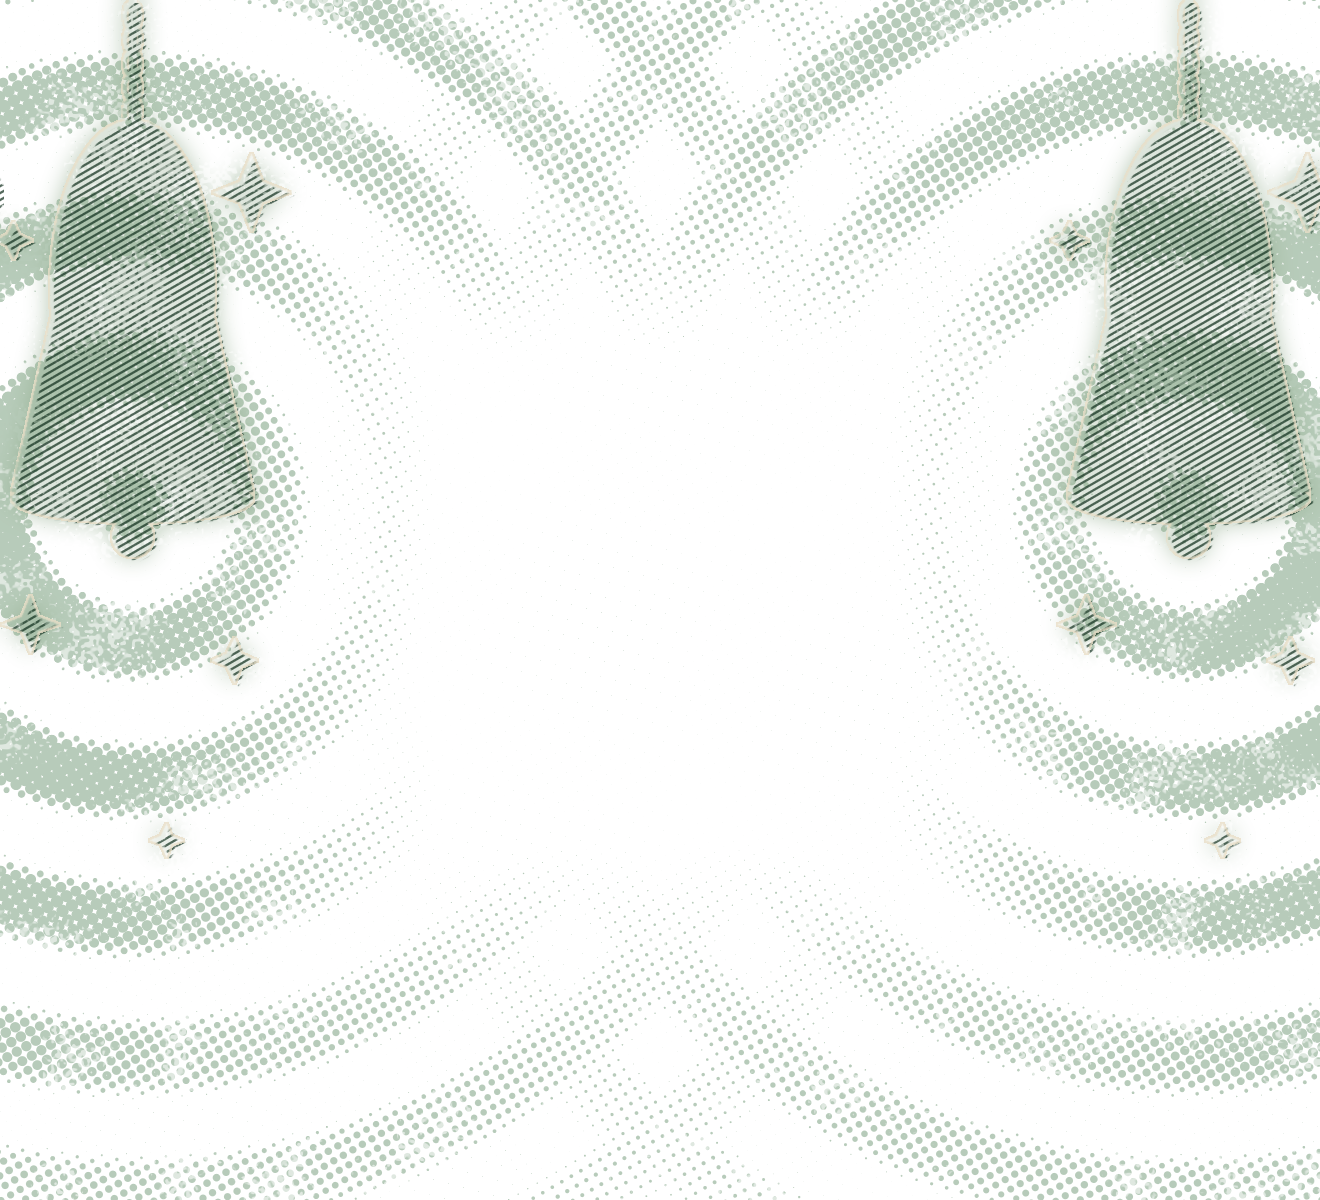
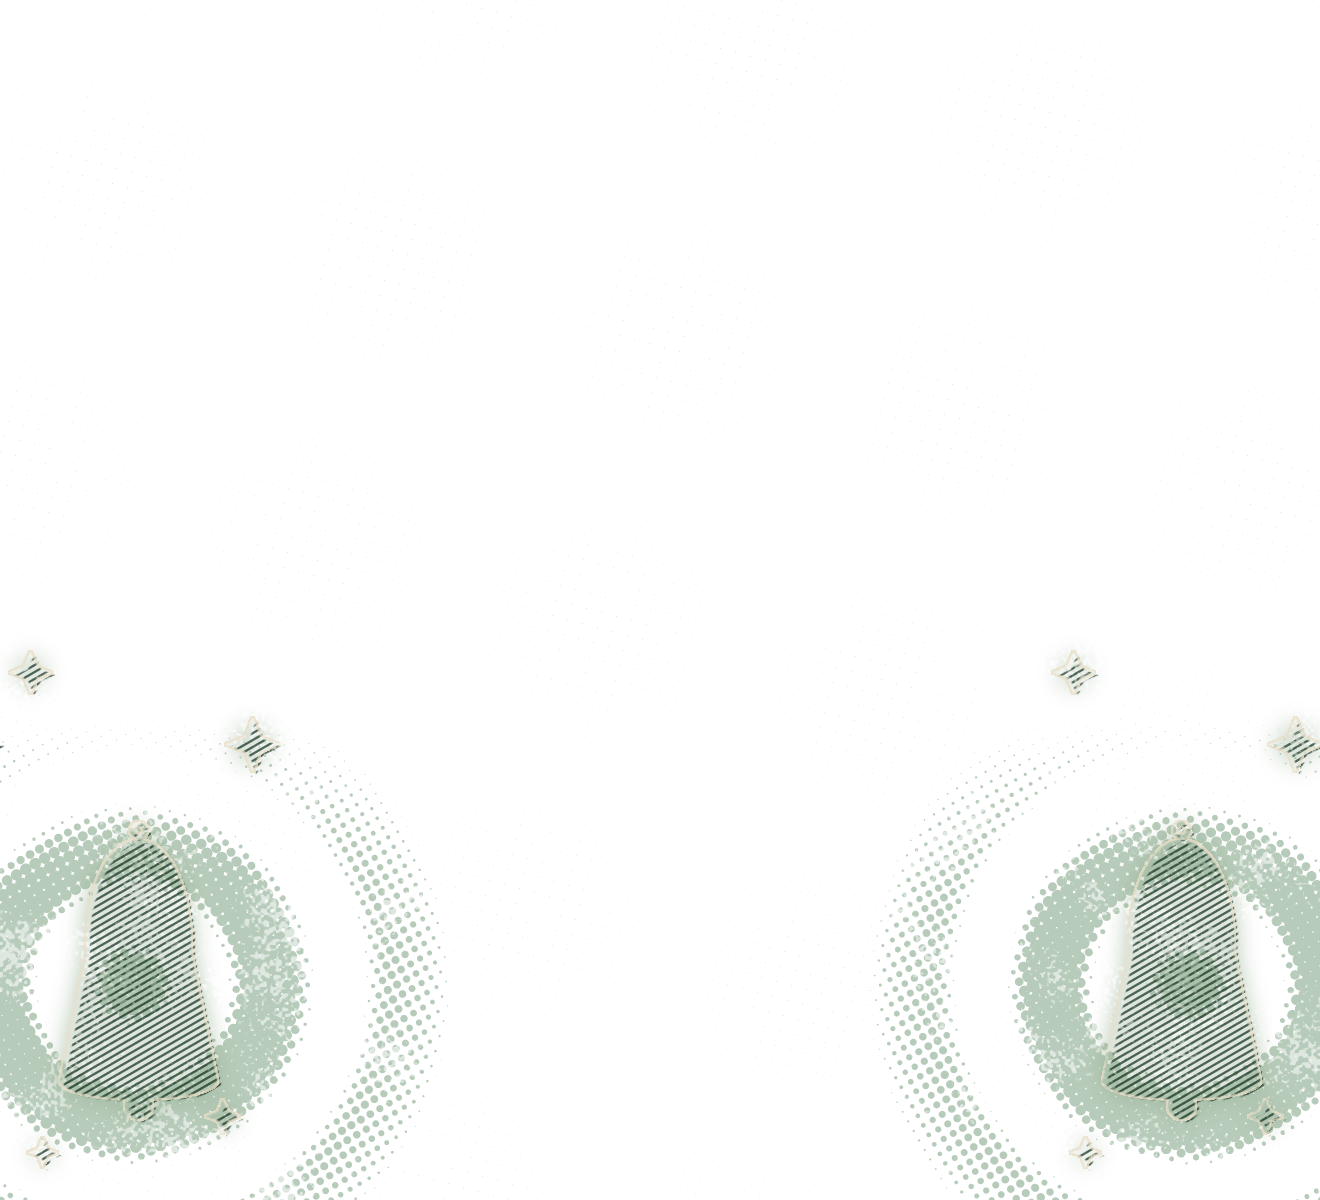
Art: keep the scenes off the controls
Checked in the live windows: the art moves to the margins, the foot and the gaps.

diff --git a/scripts/make-art.py b/scripts/make-art.py
@@ -263,19 +263,19 @@ def drums(w=1320, h=1200):
         beams = np.maximum(beams, smooth(0.55, 0.95, 0.5 + 0.5 * np.cos((a - 1.0) * 5.0)) * reach)
 
     def kit(draw):
-        for cx, sign in ((w * 0.14, 1), (w * 0.86, -1)):
+        for cx, sign in ((w * 0.05, 1), (w * 0.95, -1)):
             for tilt in (0.5, -0.5):
-                dx, dy = np.sin(tilt) * 230, np.cos(tilt) * 230
-                draw.line([(cx - dx * sign, h * 0.17 - dy), (cx + dx * sign, h * 0.17 + dy)], fill=255, width=30)
-                draw.ellipse([cx + dx * sign - 34, h * 0.17 + dy - 34, cx + dx * sign + 34, h * 0.17 + dy + 34],
+                dx, dy = np.sin(tilt) * 110, np.cos(tilt) * 110
+                draw.line([(cx - dx * sign, h * 0.13 - dy), (cx + dx * sign, h * 0.13 + dy)], fill=255, width=16)
+                draw.ellipse([cx + dx * sign - 20, h * 0.13 + dy - 20, cx + dx * sign + 20, h * 0.13 + dy + 20],
                              fill=255)
-        for cx in (w * 0.12, w * 0.88):
-            for r, wd in ((190, 14), (150, 5), (120, 5)):
+        for cx in (w * 0.05, w * 0.95):
+            for r, wd in ((110, 10), (84, 4), (62, 4)):
                 draw.ellipse([cx - r, h * 1.02 - r, cx + r, h * 1.02 + r], outline=255, width=wd)
             for i in range(10):
                 ang = i * 0.314
-                px, py = cx + np.cos(ang) * 170, h * 1.02 - abs(np.sin(ang)) * 170
-                draw.ellipse([px - 7, py - 7, px + 7, py + 7], fill=255)
+                px, py = cx + np.cos(ang) * 97, h * 1.02 - abs(np.sin(ang)) * 97
+                draw.ellipse([px - 5, py - 5, px + 5, py + 5], fill=255)
     img, mask, glow = sketch(kit, w, h)
     layers = [
         ink(halftone(beams * edge * 0.9, 12, 30), tint(paint, 0.45), 0.55, w, h, 101),
@@ -294,18 +294,18 @@ def bass(w=1320, h=1200):
 
     def neck(draw):
         for cx in (w * 0.075, w * 0.925):
-            draw.rectangle([cx - 78, 0, cx + 78, h], fill=255)
+            draw.rectangle([cx - 54, h * 0.62, cx + 54, h], fill=255)
     img, mask, _ = sketch(neck, w, h, 0.5)
     fret = np.zeros((h, w), np.float32)
-    for i in range(12):
-        fret = np.maximum(fret, np.clip(1 - np.abs(y - h * (0.03 + 0.08 * i)) / 2.4, 0, 1))
+    for i in range(9):
+        fret = np.maximum(fret, np.clip(1 - np.abs(y - h * (0.64 + 0.04 * i)) / 2.4, 0, 1))
     for cx in (w * 0.075, w * 0.925):
         for k in range(1, 5):
-            line = np.clip(1 - np.abs(x - (cx - 60 + k * 24)) / 1.4, 0, 1)
-            fret = np.maximum(fret, line * (np.abs(x - cx) < 80))
+            line = np.clip(1 - np.abs(x - (cx - 40 + k * 20)) / 1.4, 0, 1)
+            fret = np.maximum(fret, line * (np.abs(x - cx) < 56))
     inlay = np.zeros((h, w), np.float32)
     for cx in (w * 0.075, w * 0.925):
-        for row, r in ((0.2, 14), (0.4, 14), (0.55, 20), (0.74, 14)):
+        for row, r in ((0.7, 12), (0.82, 12), (0.93, 16)):
             inlay = np.maximum(inlay, np.clip(r - np.sqrt((x - cx) ** 2 + (y - h * row) ** 2) + 0.5, 0, 1))
     strings = np.zeros((h, w), np.float32)
     swing = smooth(0.05, 0.5, np.minimum(x, w - x) / w * 2)
@@ -315,7 +315,7 @@ def bass(w=1320, h=1200):
             strings = np.maximum(strings, np.clip(1 - np.abs(y - yy) / (1.3 + k * 0.5), 0, 1))
     waves = smooth(0.4, 1.0, 0.5 + 0.5 * np.cos(y / 14.0 + 2 * np.sin(x / 130.0))) * edge * 0.8 * (1 - mask)
     layers = [
-        ink(mask * 0.55, shadeof(paint, 0.55), 0.5, w, h, 111),
+        ink(mask * 0.55, shadeof(paint, 0.55), 0.4, w, h, 111),
         ink(fret * mask, tint(paint, 0.55), 0.7, w, h, 112),
         ink(inlay, CREAM, 0.8, w, h, 113),
         ink(halftone(waves, 11, 0), tint(paint, 0.4), 0.45, w, h, 114),
@@ -330,12 +330,12 @@ def pad(w=1320, h=1200):
     x, y = grid(w, h)
     edge = edges(w, h, 0.32)
     rng = np.random.default_rng(121)
-    mx, my, mr = w * 0.88, h * 0.17, 110
+    mx, my, mr = w * 0.76, h * 0.86, 62
     moon = np.clip(mr - np.sqrt((x - mx) ** 2 + (y - my) ** 2) + 0.5, 0, 1)
     crater = np.zeros((h, w), np.float32)
-    for _ in range(9):
-        a_, r_ = rng.uniform(0, 6.28), rng.uniform(0, mr * 0.7)
-        cr = rng.uniform(10, 26)
+    for _ in range(7):
+        a_, r_ = rng.uniform(0, 6.28), rng.uniform(0, mr * 0.6)
+        cr = rng.uniform(6, 15)
         d_ = np.sqrt((x - (mx + np.cos(a_) * r_)) ** 2 + (y - (my + np.sin(a_) * r_)) ** 2)
         crater = np.maximum(crater, np.clip(1 - np.abs(d_ - cr) / 1.6, 0, 1))
     curtain = 0.5 + 0.5 * np.sin(x / 70.0 + 2.2 * np.sin(y / 260.0) + noise(w, h, 150, 122) * 3)
@@ -368,24 +368,23 @@ def bells(w=1320, h=1200):
     edge = edges(w, h, 0.34)
     rings = np.zeros((h, w), np.float32)
     for cx in (w * 0.1, w * 0.9):
-        d = np.sqrt((x - cx) ** 2 + (y - h * 0.42) ** 2)
-        rings = np.maximum(rings, smooth(0.3, 0.9, 0.5 + 0.5 * np.cos(d / 22.0)) * smooth(h * 0.8, 120, d))
+        d = np.sqrt((x - cx) ** 2 + (y - h * 0.82) ** 2)
+        rings = np.maximum(rings, smooth(0.3, 0.9, 0.5 + 0.5 * np.cos(d / 22.0)) * smooth(h * 0.3, 90, d))
 
     def shapes(draw):
-        for cx in (w * 0.1, w * 0.9):
-            draw.line([(cx, 0), (cx, h * 0.1)], fill=255, width=8)
-            for k in range(5):
-                draw.ellipse([cx - 9, k * 24, cx + 9, k * 24 + 30], outline=255, width=4)
-            draw.ellipse([cx - 82, h * 0.1, cx + 82, h * 0.38], fill=255)
-            draw.polygon([(cx - 80, h * 0.26), (cx + 80, h * 0.26), (cx + 120, h * 0.41), (cx - 120, h * 0.41)],
-                         fill=255)
-            draw.ellipse([cx - 120, h * 0.395, cx + 120, h * 0.435], fill=255)
-            draw.ellipse([cx - 20, h * 0.43, cx + 20, h * 0.43 + 40], fill=255)
-            for gx, gy, r in ((0.7, 0.16, 38), (0.6, 0.55, 22), (-0.6, 0.52, 28), (-0.7, 0.2, 18), (0.2, 0.7, 16)):
-                draw.polygon(star_polygon(cx + gx * 170, h * gy, r), fill=255)
+        for cx in (w * 0.105, w * 0.895):
+            top = h * 0.70
+            draw.ellipse([cx - 52, top, cx + 52, top + h * 0.17], fill=255)
+            draw.polygon([(cx - 51, top + h * 0.09), (cx + 51, top + h * 0.09), (cx + 78, top + h * 0.2),
+                          (cx - 78, top + h * 0.2)], fill=255)
+            draw.ellipse([cx - 78, top + h * 0.185, cx + 78, top + h * 0.215], fill=255)
+            draw.ellipse([cx - 13, top + h * 0.21, cx + 13, top + h * 0.21 + 26], fill=255)
+            draw.ellipse([cx - 8, top - 18, cx + 8, top - 2], outline=255, width=4)
+            for gx, gy, r in ((0.95, 0.62, 26), (-0.9, 0.56, 20), (0.7, 0.93, 16), (-0.8, 0.96, 14)):
+                draw.polygon(star_polygon(cx + gx * 120, h * gy, r), fill=255)
     img, mask, glow = sketch(shapes, w, h)
     layers = [
-        ink(halftone(rings * edge * 0.9, 11, 60), tint(paint, 0.4), 0.5, w, h, 131),
+        ink(halftone(rings * smooth(0.6, 0.78, y / h) * 0.9, 11, 60), tint(paint, 0.4), 0.5, w, h, 131),
         ink(glow, tint(paint, 0.55), 0.3, w, h, 132),
         ink(np.roll(hatch(mask, 6, 60, 2.3), (3, 4), axis=(0, 1)), shadeof(paint, 0.6), 0.7, w, h, 133),
         ink(rim_of(img, mask), CREAM, 0.8, w, h, 134),
